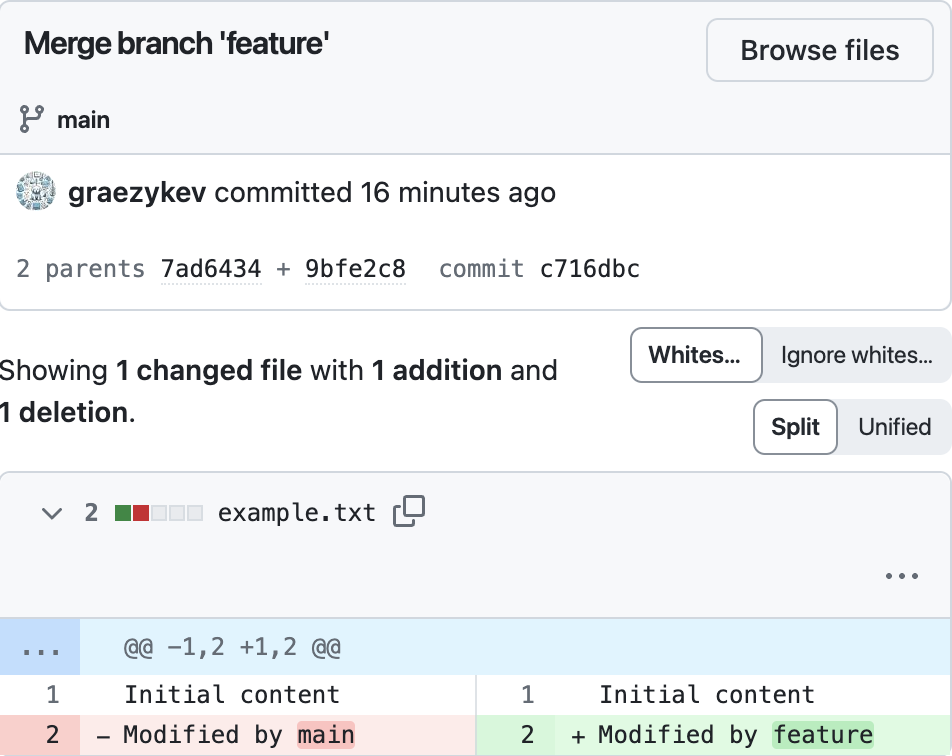
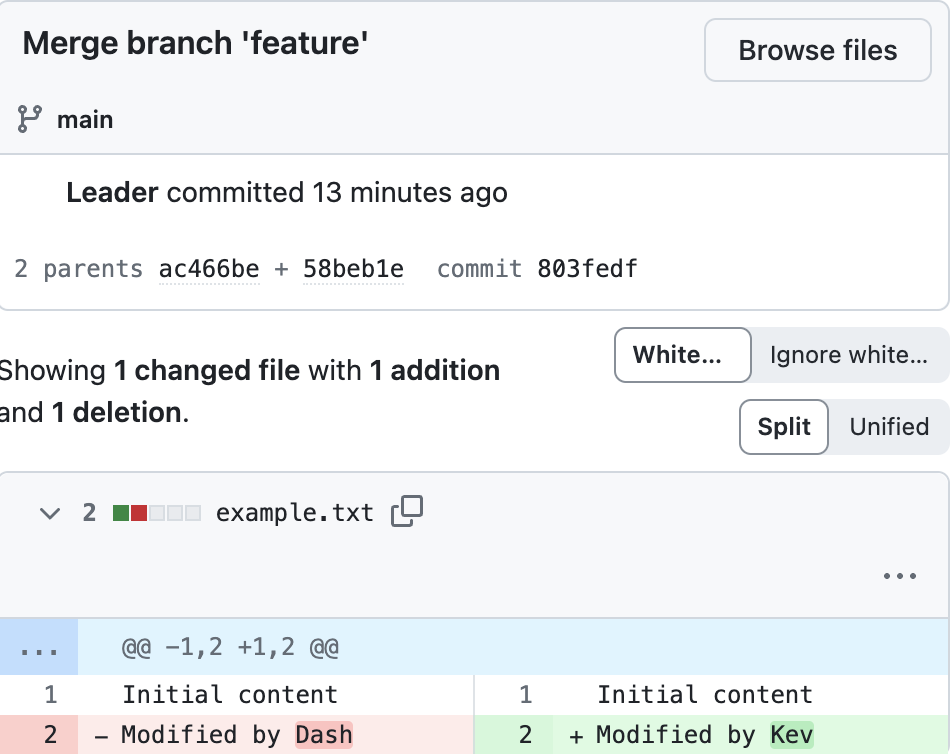
7th commit (milestone)

diff --git a/README.md b/README.md
@@ -3,8 +3,8 @@
 Initiate a Git repository, as well as a `main` branch.
 
 ```sh
-mkdir git-nuance-merge && \
-cd git-nuance-merge && \
+mkdir git-nuance-demo-merge && \
+cd git-nuance-demo-merge && \
 git init && \
 git branch -M main
 ```
@@ -23,9 +23,9 @@ Input a first line into `example.txt`
 +Initial content
 ```
 
-And then make a commit of 'A'.
-
 <img alt="" src="image-1.png" width="500" />
+
+And then make a commit of 'A'.
 
 ### Commit `B`
 
@@ -33,24 +33,24 @@ Input a second line into `example.txt`
 
 ```diff
 Initial content
-+Added by main
++Added by leader
 ```
-
-And then make a commit of 'B'.
 
 <img alt="" src="image-2.png" width="500" />
 
+And then make a commit of 'B'.
+
 ### Bseline Commit Graph
 
-Here's the commit graph now, imagine it as the project baseline.
+Here's the commit graph by now, imagine it as the project baseline.
 
 ```css
 A---B [main]
 ```
 
-### Commit `D`
+### Commit `D` (New Branch)
 
-Let's say one of the developers (or myself) needs to develop a new feature, he creates a new branch `feature` based on `main`.
+Let's say one of the developers (Kev) needs to develop a new feature, he creates a new branch `feature` based on `main`.
 
 ```sh
 git checkout -b feature
@@ -60,15 +60,15 @@ And makes some changes to the second line.
 
 ```diff
 Initial content
--Added by main
-+Modified by feature
+-Added by leader
++Modified by Kev
 ```
 
-<img alt="" src="image-3.png" width="500" />
+<img alt="" src="image.png" width="500" />
 
 ### Commit `C`
 
-During his development, another developer (or myself) merged his feature to branch `main`, with a commit `C` .
+During Kev's development, another developer (Dash) merged his feature to branch `main` first, with a commit `C` .
 
 ```sh
 git checkout main
@@ -78,15 +78,15 @@ In this commit he also made some changes to the second line.
 
 ```diff
 Initial content
--Added by main
-+Modified by main
+-Added by leader
++Modified by Dash
 ```
 
-<img alt="" src="image.png" width="500" />
+<img alt="" src="image-3.png" width="500" />
 
 ### Initial Git Commit Graph
 
-Simply put the two guys's commits above into this graph:
+Simply put Kev's and Dash's commits above into this graph:
 
 ```css
 A---B---C [main]
@@ -98,11 +98,11 @@ Here are the **Git Histories** on branch `main` and `feature` respectively.
 
 - Git Logs on `main`
 
-  <img alt="" src="image-4.png" width="200" />
+  <img alt="" src="image-4.png" width="300" />
 
 - Git Logs on `feature`
 
-  <img alt="" src="image-5.png" width="200" />
+  <img alt="" src="image-5.png" width="300" />
 
 Imagine we need to release the features in brach `feature`, we have 2 options:
 
@@ -121,25 +121,23 @@ git checkout main
 git merge feature
 ```
 
-<img alt="" src="merge-c.gif" width="600" />
+<img alt="merge feature into main" src="merge-c.gif" width="600" />
 
 Here's the confict (in line 2).
-
-<img alt="" src="image-6.png" width="600" />
 
 ```txt
 Initial content
 <<<<<<< HEAD
-Modified by main
+Modified by Dash
 =======
-Modified by feature
+Modified by Kev
 >>>>>>> feature
 ```
 
 And take notes on the console.
 
 ```console
-➜  git-nuance-merge git:(main) git merge feature
+/workspaces/git-nuance-demo-merge (main) $ git merge feature
 Auto-merging example.txt
 CONFLICT (content): Merge conflict in example.txt
 Automatic merge failed; fix conflicts and then commit the result.
@@ -149,22 +147,22 @@ Check it out: **fix conflicts and then commit the result.**
 
 It tells us to both **Fix** and **Commit** so that the conficts can be resolved.
 
-Let's do it by "Accept Incoming Chage", which in this case means accepting `feature` brach's change.
+Let's do it by "Accept Incoming Chage", which in this case means accepting branch `feature`'s change.
 
 <img alt="fix git merge conflict and commit" src="merge-c-2.gif" width="600" />
 
-Did you notice the new commit in the Git Logs of `main`?
+Do you notice the **new** commit in the Git Logs of `main`?
 
 <img alt="merge" src="image-7.png" width="250" />
 
-The details of the new commit (**Merge Commit**)
+The details of the new commit (**Merge Commit**).
 
 <img alt="merge" src="image-8.png" width="250" />
 
 ```diff
 Initial content
--Modified by main
-+Modified by feature
+-Modified by Dash
++Modified by Kev
 ```
 
 ### Graph After Merge
@@ -189,16 +187,20 @@ A---B---C [main]
       D [feature]
 ```
 
-Take a look at the commit `D`'s commit ID (hash) `89ccb71` on branch `feature`.
+Take a look at brach `feature`.
 
-<img alt="" src="image-10.png" width="250" />
+<img alt="" src="image-6.png" width="250" />
+
+The commit `D`'s commit ID (hash) is `4fdc6b4...`.
 
 And the changes in this commit.
 
+<img alt="" src="image-13.png" width="500" />
+
 ```diff
 Initial content
--Added by main
-+Modified by feature
+-Added by leader
++Modified by Kev
 ```
 
 The commit ID and changes are going to be changed after the rebase, we'll see why.
@@ -214,36 +216,34 @@ git checkout feature
 Rebase it onto `main`.
 
 ```sh
-git rebase base
+git rebase main
 ```
 
 <img alt="" src="rebase-c.gif" width="600"/>
 
 Here's the confict
 
-<img alt="" src="image-9.png" width="600"/>
-
 ```txt
 Initial content
 <<<<<<< HEAD
-Modified by main
+Modified by Dash
 =======
-Modified by feature
->>>>>>> 89ccb71 (D)
+Modified by Kev
+>>>>>>> 4fdc6b4 (D)
 ```
 
 The conflict looks **identical** to what we did in the last option (Merge) doesn't it? But the terminal console is different.
 
 ```console
-➜  git-nuance-rebase git:(feature) git rebase main
+/workspaces/git-nuance-demo-rebase (feature) $ git rebase main
 Auto-merging example.txt
 CONFLICT (content): Merge conflict in example.txt
-error: could not apply 89ccb71... D
+error: could not apply 4fdc6b4... D
 hint: Resolve all conflicts manually, mark them as resolved with
 hint: "git add/rm <conflicted_files>", then run "git rebase --continue".
 hint: You can instead skip this commit: run "git rebase --skip".
 hint: To abort and get back to the state before "git rebase", run "git rebase --abort".
-Could not apply 89ccb71... D
+Could not apply 4fdc6b4... D
 ```
 
 It tells us to **Resolve all conflicts manually**, and continue with `git rebase --continue`.
@@ -260,14 +260,14 @@ D
 # Please enter the commit message for your changes. Lines starting
 # with '#' will be ignored, and an empty message aborts the commit.
 #
-# interactive rebase in progress; onto 755ac4a
+# interactive rebase in progress; onto 05cfdd2
 # Last command done (1 command done):
-#    pick 89ccb71 D
+#    pick 4fdc6b4 D
 # No commands remaining.
-# You are currently rebasing branch 'feature' on '755ac4a'.
+# You are currently rebasing branch 'feature' on '05cfdd2'.
 #
 # Changes to be committed:
-#       modified:   example.txt
+# modified:   example.txt
 #
 ```
 
@@ -275,22 +275,22 @@ Here Git offers me an editor to edit the commit message of `D`.
 
 I can make no change and just leave it.
 
-Now the rebase has finished, take a look at the commit history of `feature`.
+Now the rebase has finished, take a look at the commit history of branch `feature`.
 
 <img alt="" src="image-11.png" width="250" />
 
-And the commit ID of `D`.
+Pay special attention to the commit ID of `D`.
 
-<img alt="" src="image-12.png" width="250" />
-
-It's `d512c2f`, remember what was it before the rebase? It was `89ccb71`.
+It's now `9e1e9f1...`, remember what was it before the rebase? It was `4fdc6b4...`.
 
 And the changes of this commit.
 
+<img alt="" src="image-9.png" width="250" />
+
 ```diff
 Initial content
--Modified by main
-+Modified by feature
+-Modified by Dash
++Modified by Kev
 ```
 
 See? The changes are also different to the previous commit `D`, because the commit `D` was **rewritten** in rebase.
